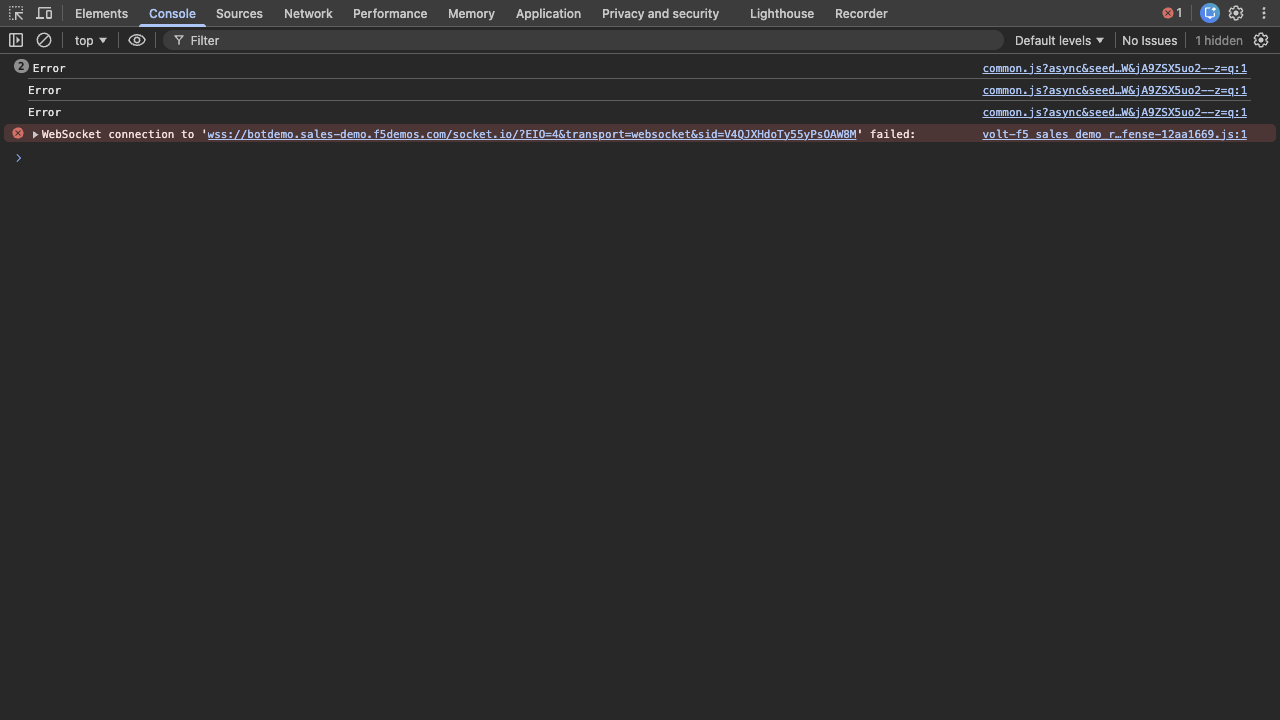
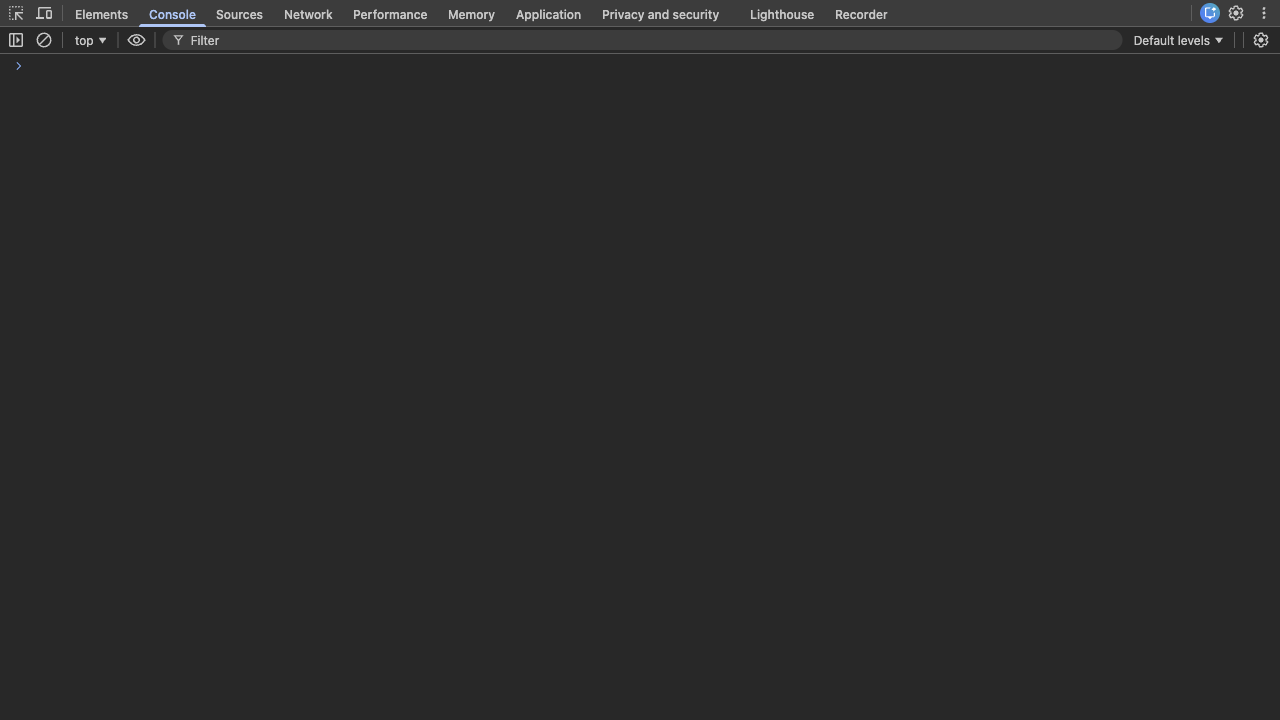
fix: suppress console errors in DevTools Console panel screenshots (#203)
Add three-layer error suppression to capture-console-output.cjs:

1. Message level filter — temporarily hide error/warning levels via
   messageLevelFiltersSetting during console clear and script execution,
   then restore defaults before capture
2. Issue counter hiding — DOM-manipulate devtools-issue-counter in both
   Console toolbar and main toolbar shadow DOM
3. Error counter badge hiding — hide icon-button in main toolbar shadow DOM

Also make script-file argument optional (pass "" for clean console captures)
and update SCREENSHOT-INSTRUCTIONS.md Section 16 with the new Console error
suppression API documentation and Section 17.5 with updated script reference.

Recapture all 4 Console panel screenshots at 1280x720:
- devtools-console-light.png (clean console)
- devtools-console-dark.png (clean console)
- devtools-console-output-light.png (attack script output)
- devtools-console-output-dark.png (attack script output)

Closes #202

diff --git a/SCREENSHOT-INSTRUCTIONS.md b/SCREENSHOT-INSTRUCTIONS.md
@@ -1989,13 +1989,61 @@ prompt.text();
 prompt.clear();
 ```
 
+### Console error suppression
+
+The demo site fires error-level console messages from two sources: `common.js` runtime errors and Bot Defense WebSocket reconnection failures (`wss://botdemo.sales-demo.f5demos.com/socket.io/...`). Additionally, injected CDN scripts from the attack simulation produce Chrome Issues (CORS, ES module errors). These create visible noise in Console screenshots:
+
+- Red error messages in the Console panel
+- An error counter badge (red square with count) in the top DevTools toolbar
+- An "Issues" counter in both the top toolbar and Console toolbar
+
+**Suppression strategy (three layers):**
+
+1. **Message level filter** — The Console panel has a `messageLevelFiltersSetting` that controls which log levels are visible. Setting `error` and `warning` to `false` before clearing the console and executing scripts prevents error-level messages from ever registering. After execution, resetting to defaults restores the toolbar label from "Info only" to "Default levels".
+
+```javascript
+// Suppress errors and warnings (on DevTools target)
+var f = UI.panels.console.view.filter;
+f.messageLevelFiltersSetting.set({verbose: false, info: true, warning: false, error: false});
+
+// ... clear console, execute script, wait ...
+
+// Restore defaults (toolbar shows "Default levels" again)
+f.messageLevelFiltersSetting.set({verbose: false, info: true, warning: true, error: true});
+```
+
+The preference key is `message-level-filters` (stored as JSON in Chrome Preferences). Default value: `{"verbose":false,"info":true,"warning":true,"error":true}`.
+
+2. **Issue counter hiding** — The `devtools-issue-counter` custom element appears in both the Console toolbar and the main DevTools toolbar (inside the shadow DOM of `.main-tabbed-pane`). Hide both via `display: none`:
+
+```javascript
+// Hide issue counter in Console toolbar
+var ci = document.querySelector('devtools-issue-counter');
+if (ci) ci.style.display = 'none';
+
+// Hide counters in the main toolbar (inside shadow DOM)
+var pane = document.querySelector('.main-tabbed-pane');
+var rt = pane.shadowRoot.querySelector('.tabbed-pane-right-toolbar');
+var ic = rt.querySelector('devtools-issue-counter');
+if (ic) ic.style.display = 'none';
+```
+
+3. **Error counter badge hiding** — The red error count badge is an `icon-button` element inside the same shadow DOM toolbar:
+
+```javascript
+var ib = rt.querySelector('icon-button');
+if (ib) ib.style.display = 'none';
+```
+
+The attack script uses only `console.log` (info level), so all its output passes through the filter unaffected.
+
 ### Console drawer behavior
 
 When the Console panel is the active panel (not a drawer), it shows a drawer bar at the bottom with tabs ("Console", "AI assistance", etc.). This bar appears in captures and cannot be hidden without switching to a different panel. Pressing Escape while the Console panel is active closes any sub-drawer but does not remove the tab bar itself.
 
 ### Complete Console panel screenshot workflow
 
-This is the recommended sequence for capturing Console output screenshots. The committed script `scripts/capture-console-output.cjs` implements this workflow (see Section 17).
+This is the recommended sequence for capturing Console output screenshots. The committed script `scripts/capture-console-output.cjs` implements this workflow (see Section 17). Pass `""` as the script-file argument to capture a clean (empty) Console panel.
 
 1. **Kill Chrome** — ensure clean state
 2. **Set preferences** — `panel-selected-tab` = `console`, `currentDockState` = `undocked`, `uiTheme` = `"default"` or `"dark"` (Section 3)
@@ -2007,13 +2055,16 @@ This is the recommended sequence for capturing Console output screenshots. The c
 6. **Page target: fill credentials** — populate email/password fields so the page is in a realistic state
 7. **DevTools target: set viewport** — `Emulation.setDeviceMetricsOverride` at 1280x720, 1x DPR
 8. **DevTools target: force theme** — add/remove `theme-with-dark-background` class (Section 13)
-9. **DevTools target: clear console** — `UI.panels.console.view.clearConsole()`
-10. **DevTools target: execute script** — `UI.panels.console.view.prompt.appendCommand(script, true)`
-11. **Wait for async callbacks** — 5-6 seconds for network requests, dynamic script loads, and fetch completions
-12. **DevTools target: close drawer** — press Escape via `Input.dispatchKeyEvent` to close any sub-drawer
-13. **DevTools target: scroll to bottom** — `UI.panels.console.view.immediatelyScrollToBottom()`
-14. **Capture** — `Page.captureScreenshot` with `format: 'png'` on the DevTools target
-15. **Verify** — confirm 1280x720 dimensions and visible console output
+9. **DevTools target: suppress errors** — set `messageLevelFiltersSetting` to hide error/warning levels
+10. **DevTools target: clear console** — `UI.panels.console.view.clearConsole()`
+11. **DevTools target: execute script** (if provided) — `UI.panels.console.view.prompt.appendCommand(script, true)`
+12. **Wait for async callbacks** — 5-6 seconds for network requests, dynamic script loads, and fetch completions
+13. **DevTools target: restore default filters** — reset `messageLevelFiltersSetting` to defaults
+14. **DevTools target: close drawer** — press Escape via `Input.dispatchKeyEvent` to close any sub-drawer
+15. **DevTools target: scroll to bottom** — `UI.panels.console.view.immediatelyScrollToBottom()`
+16. **DevTools target: hide error/issue badges** — hide `icon-button` and `devtools-issue-counter` in both toolbars
+17. **Capture** — `Page.captureScreenshot` with `format: 'png'` on the DevTools target
+18. **Verify** — confirm 1280x720 dimensions and visible console output
 
 **Cross-references:**
 
@@ -2156,15 +2207,20 @@ NODE_PATH=$(npm root -g) node scripts/capture-csd-injected-scripts.cjs \
 
 **Cross-references:** Section 14 (sidebar/drawer collapsing), Section 15 (DOM navigation APIs)
 
-### 17.5 `capture-console-output.cjs` — Console panel script execution
+### 17.5 `capture-console-output.cjs` — Console panel screenshot
 
-**Purpose:** Execute an attack/demo script via the Console panel's prompt API and capture the resulting console output as a screenshot.
+**Purpose:** Capture a Console panel screenshot, optionally executing an attack/demo script via the Console prompt API first. Includes error suppression to hide demo site noise.
 
 **Usage:**
 
 ```bash
+# With script execution
 NODE_PATH=$(npm root -g) node scripts/capture-console-output.cjs \
   <page-ws> <devtools-ws> <script-file> <output-path> [light|dark]
+
+# Clean console (no script)
+NODE_PATH=$(npm root -g) node scripts/capture-console-output.cjs \
+  <page-ws> <devtools-ws> "" <output-path> [light|dark]
 ```
 
 **Parameters:**
@@ -2173,7 +2229,7 @@ NODE_PATH=$(npm root -g) node scripts/capture-console-output.cjs \
 | --- | --- | --- |
 | `page-ws` | Yes | WebSocket URL of the page target |
 | `devtools-ws` | Yes | WebSocket URL of the DevTools target |
-| `script-file` | Yes | Path to the JavaScript file to execute |
+| `script-file` | Yes | Path to JS file to execute, or `""` for clean console |
 | `output-path` | No | Output PNG path (default: `/tmp/console-output.png`) |
 | `light\|dark` | No | Theme (default: `light`) |
 
@@ -2186,15 +2242,18 @@ NODE_PATH=$(npm root -g) node scripts/capture-console-output.cjs \
 3. Page target: fills email and password fields
 4. DevTools target: sets viewport to 1280x720 at 1x DPR
 5. DevTools target: forces theme
-6. DevTools target: clears console via `UI.panels.console.view.clearConsole()`
-7. DevTools target: executes script via `UI.panels.console.view.prompt.appendCommand(script, true)`
-8. Waits 6 seconds for async callbacks (network requests, dynamic script loads)
-9. DevTools target: closes drawer via Escape
-10. DevTools target: scrolls to bottom via `UI.panels.console.view.immediatelyScrollToBottom()`
-11. Captures screenshot on DevTools target
+6. DevTools target: suppresses error/warning levels via `messageLevelFiltersSetting`
+7. DevTools target: clears console via `UI.panels.console.view.clearConsole()`
+8. DevTools target: executes script (if provided) via `prompt.appendCommand(script, true)`
+9. Waits 6 seconds for async callbacks (network requests, dynamic script loads)
+10. DevTools target: restores default level filters
+11. DevTools target: closes drawer via Escape
+12. DevTools target: scrolls to bottom via `view.immediatelyScrollToBottom()`
+13. DevTools target: hides error/issue badges via DOM manipulation (shadow DOM)
+14. Captures screenshot on DevTools target
 
-**DevTools APIs used:** `UI.panels.console.view`, `view.clearConsole()`, `view.immediatelyScrollToBottom()`, `view.prompt`, `prompt.appendCommand()`.
+**DevTools APIs used:** `UI.panels.console.view`, `view.clearConsole()`, `view.immediatelyScrollToBottom()`, `view.filter.messageLevelFiltersSetting`, `view.prompt`, `prompt.appendCommand()`.
 
 **Prerequisites:** Chrome with the target page loaded, DevTools open to Console panel (set via preferences — Section 3). The script file should contain the JavaScript to execute (e.g., a CDN injection attack script).
 
-**Cross-references:** Section 16 (Console panel workflow), Section 3 (Chrome preferences), Section 13 (theme switching)
+**Cross-references:** Section 16 (Console panel workflow, error suppression), Section 3 (Chrome preferences), Section 13 (theme switching)
